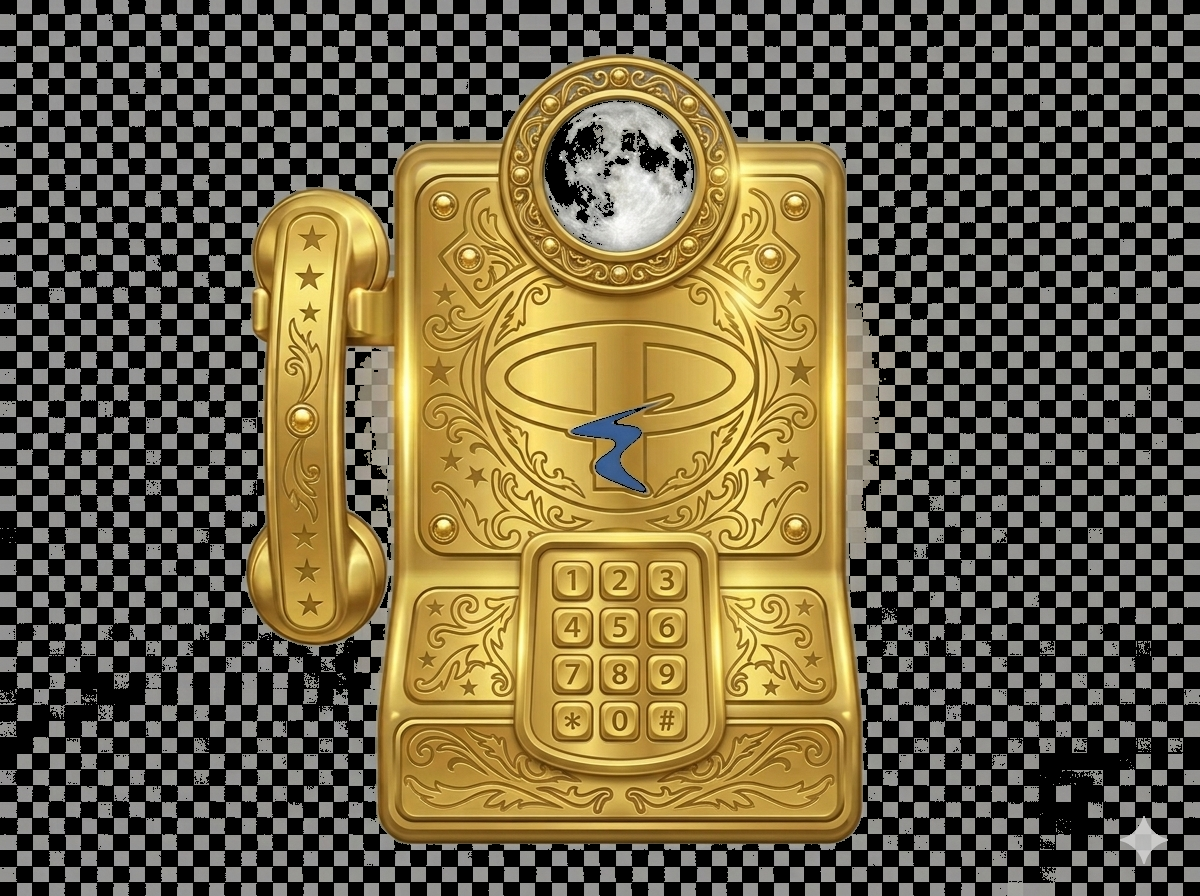
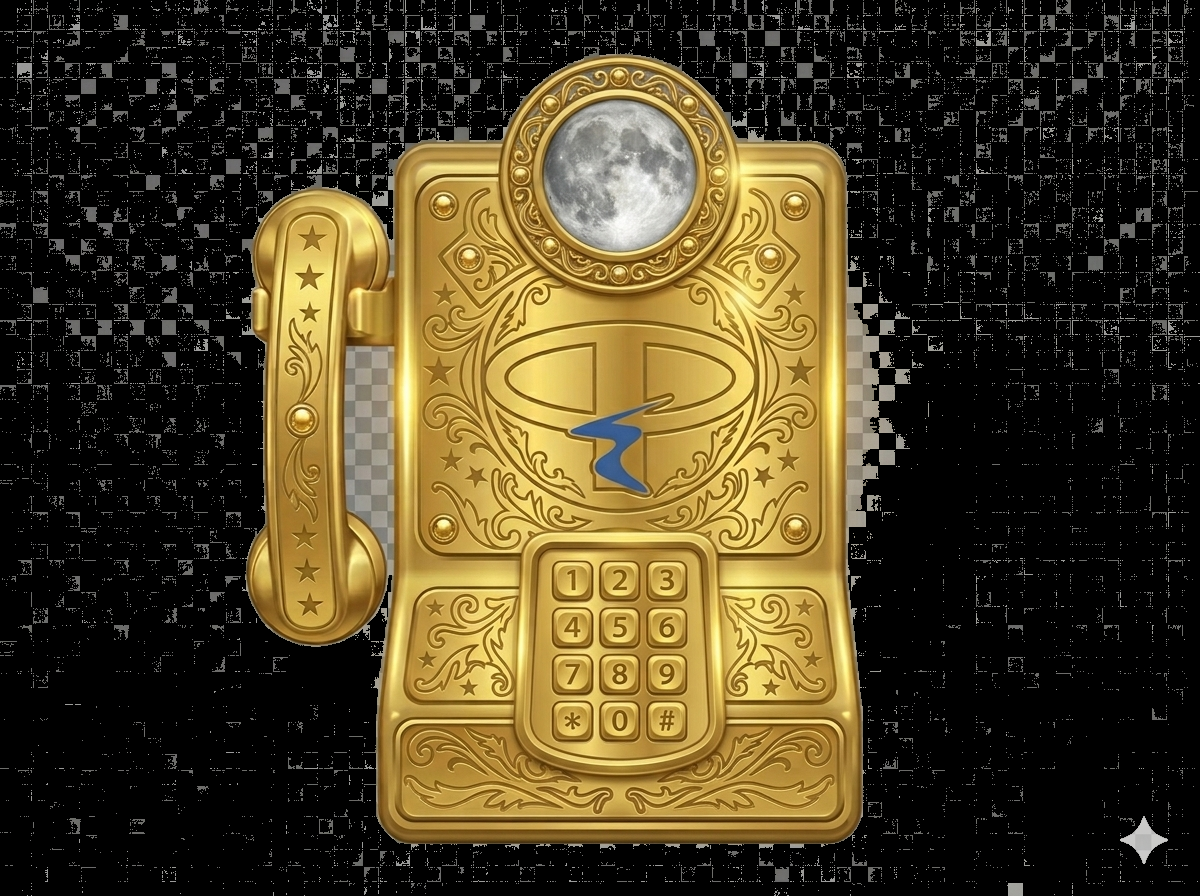
Preceding changes

diff --git a/src/components/live/LiveOneOnOneButton.tsx b/src/components/live/LiveOneOnOneButton.tsx
@@ -267,7 +267,9 @@ const LiveOneOnOneButton = ({ hostId, streamId }: LiveOneOnOneButtonProps) => {
             ) : isAccepted ? (
               <Check className="h-4 w-4" />
             ) : (
-              <img src={payPhoneIcon} alt="1-on-1" className="h-5 w-5 object-contain" />
+              <span className="flex h-5 w-5 items-center justify-center rounded-sm bg-black overflow-hidden">
+                <img src={payPhoneIcon} alt="1-on-1" className="h-5 w-5 object-contain" />
+              </span>
             )}
             1 on 1
           </Button>
